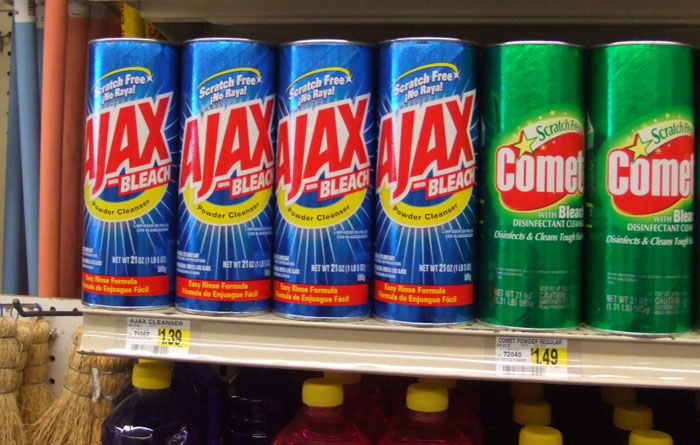
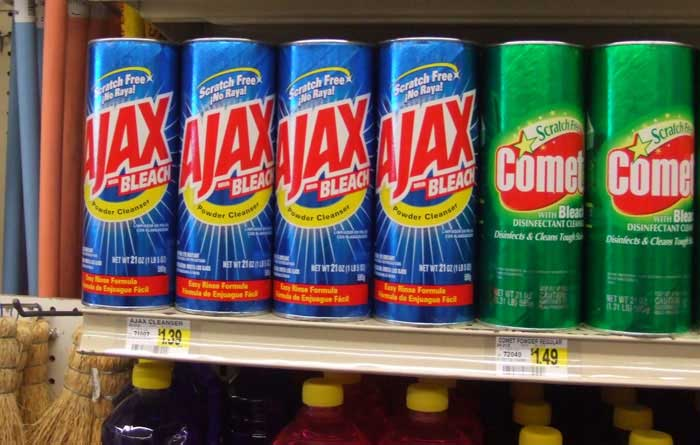
Minified images to match real width

diff --git a/http-push/index.html b/http-push/index.html
@@ -19,7 +19,7 @@
 
   <div id="start" class="step">
 	<h1>HTTP push in a <br/>cross-domain environment</h1>
-    <img src="./img/comet-logo.png" style="float:left; width:550px;">
+    <img src="./img/comet-logo-min.png" style="float:left; width:550px;">
     <!-- image from http://www.cometyouthhoops.com/ -->
 	
     <p class="footer">
@@ -45,7 +45,7 @@
 	   <li> &nbsp;HTTP streaming </li>
 	   <li><a href="http://en.wikipedia.org/wiki/Comet_(programming)">Comet</a></li>
 	</ul>	
-	 <img src="./img/ajax-comet-origin.jpg">
+	 <img src="./img/ajax-comet-origin.jpg" style="width:700px;">
 	
   </div>
   
@@ -316,7 +316,7 @@ ws.onmessage = function(evt) {
   <div id="comet-flash-sockets" class="step">
     <h2>FlashSockets</h2>
 	
-	<img src="./img/flash-logo.png" style="width:300px;float:left;padding-right:30px;"/>
+	<img src="./img/flash-logo-min.jpg" style="width:300px;float:left;padding-right:30px;"/>
 	<ul>
 		<li>Flash XMLSocket relay </li>
 		<li>Uni-directional</li>
@@ -327,7 +327,7 @@ ws.onmessage = function(evt) {
   
   <div id="note-on-ssl" class="step">
 	  <h2>A note on SSL </h2>
-	  <img src="./img/ssl-stamp.png" style="width:300px;float:left;padding-right:10px;"/>
+	  <img src="./img/ssl-stamp-min.png" style="width:300px;float:left;padding-right:10px;"/>
 	  <ul>
 		  <li>Self-signed сертификаты &nbsp;&nbsp;&nbsp;иногда не работают</li>
 		  <li>SSL &larr;&rarr; non-SSL</li>
@@ -337,7 +337,7 @@ ws.onmessage = function(evt) {
   </div>
  
  <div id="comet-facepalm" class="step">
-	 <img src="./img/facepalm.png"/>
+	 <img src="./img/facepalm.png" style="width:597px;"/>
  </div>
  
 
